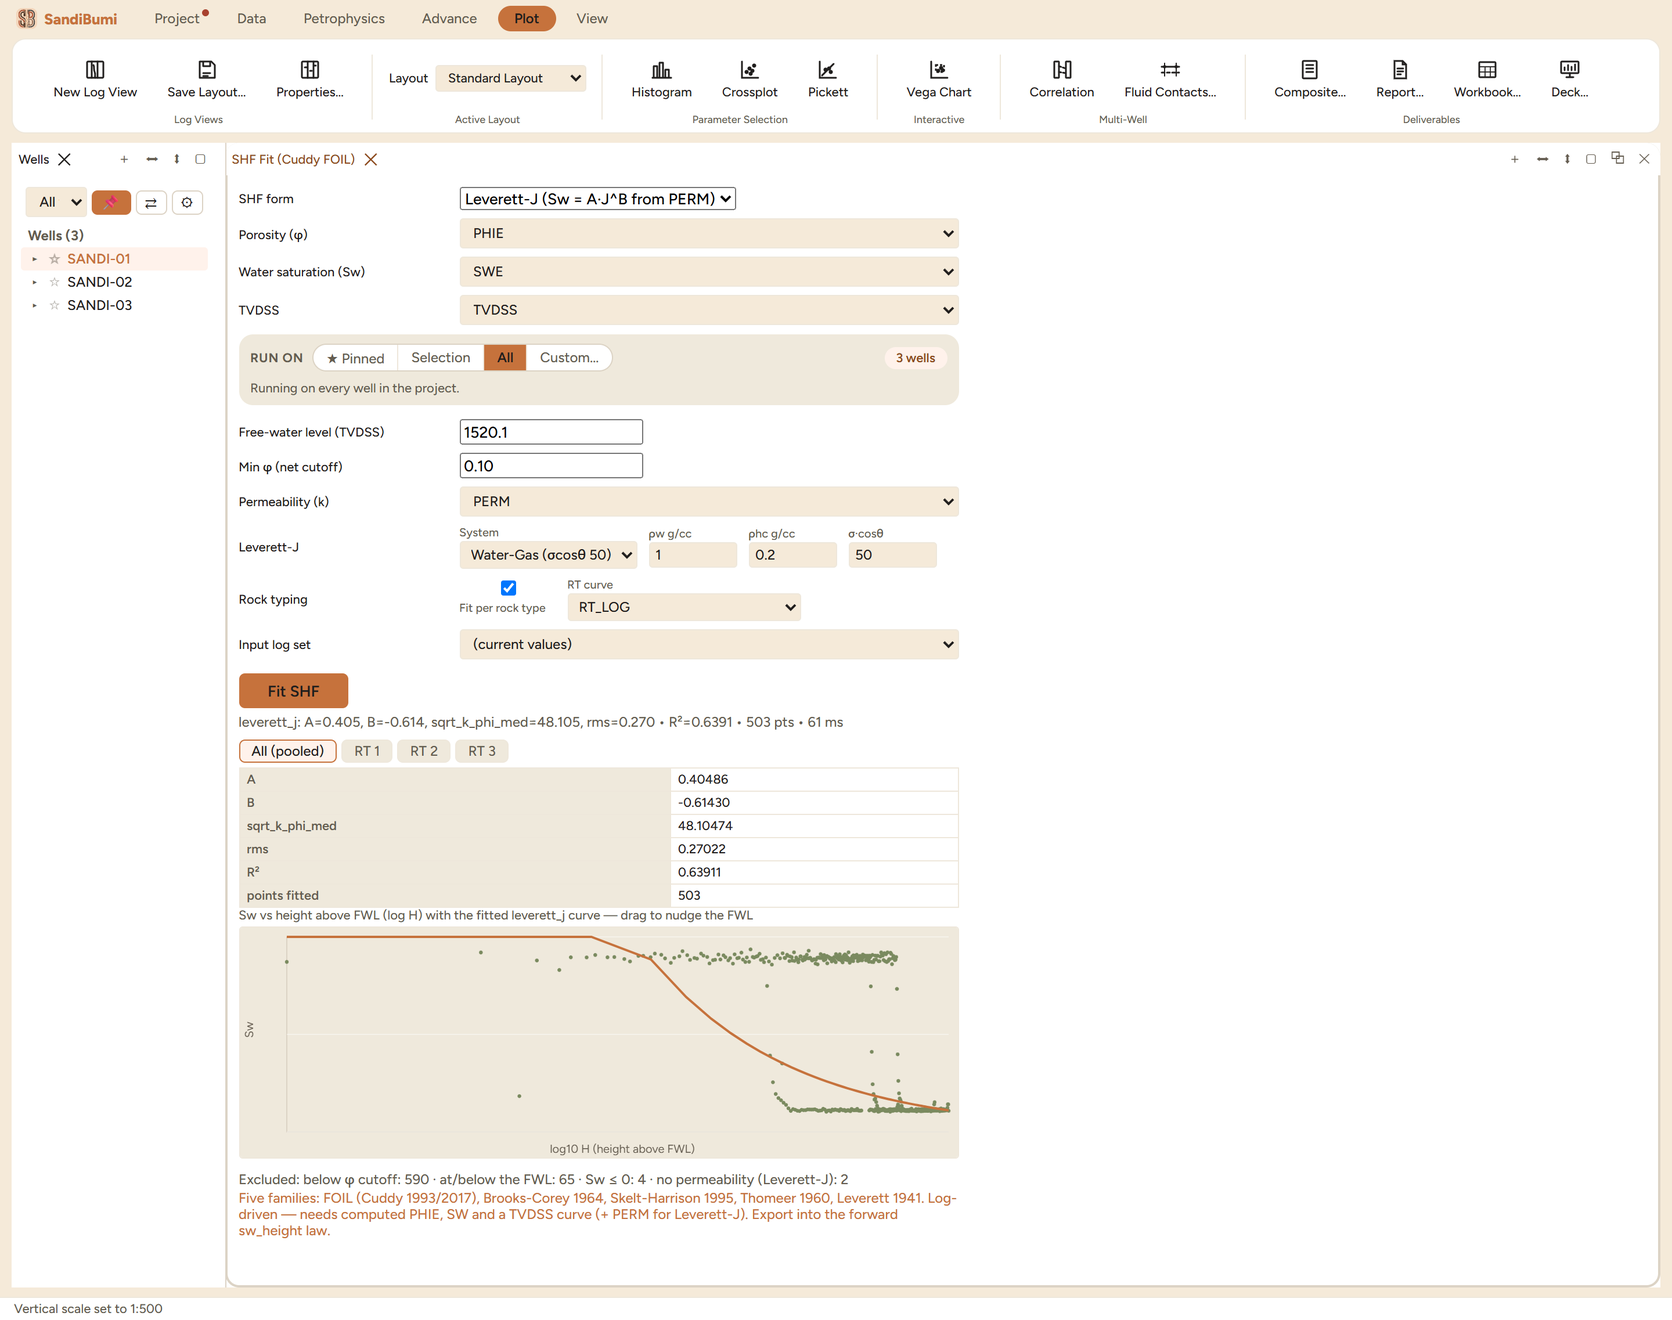
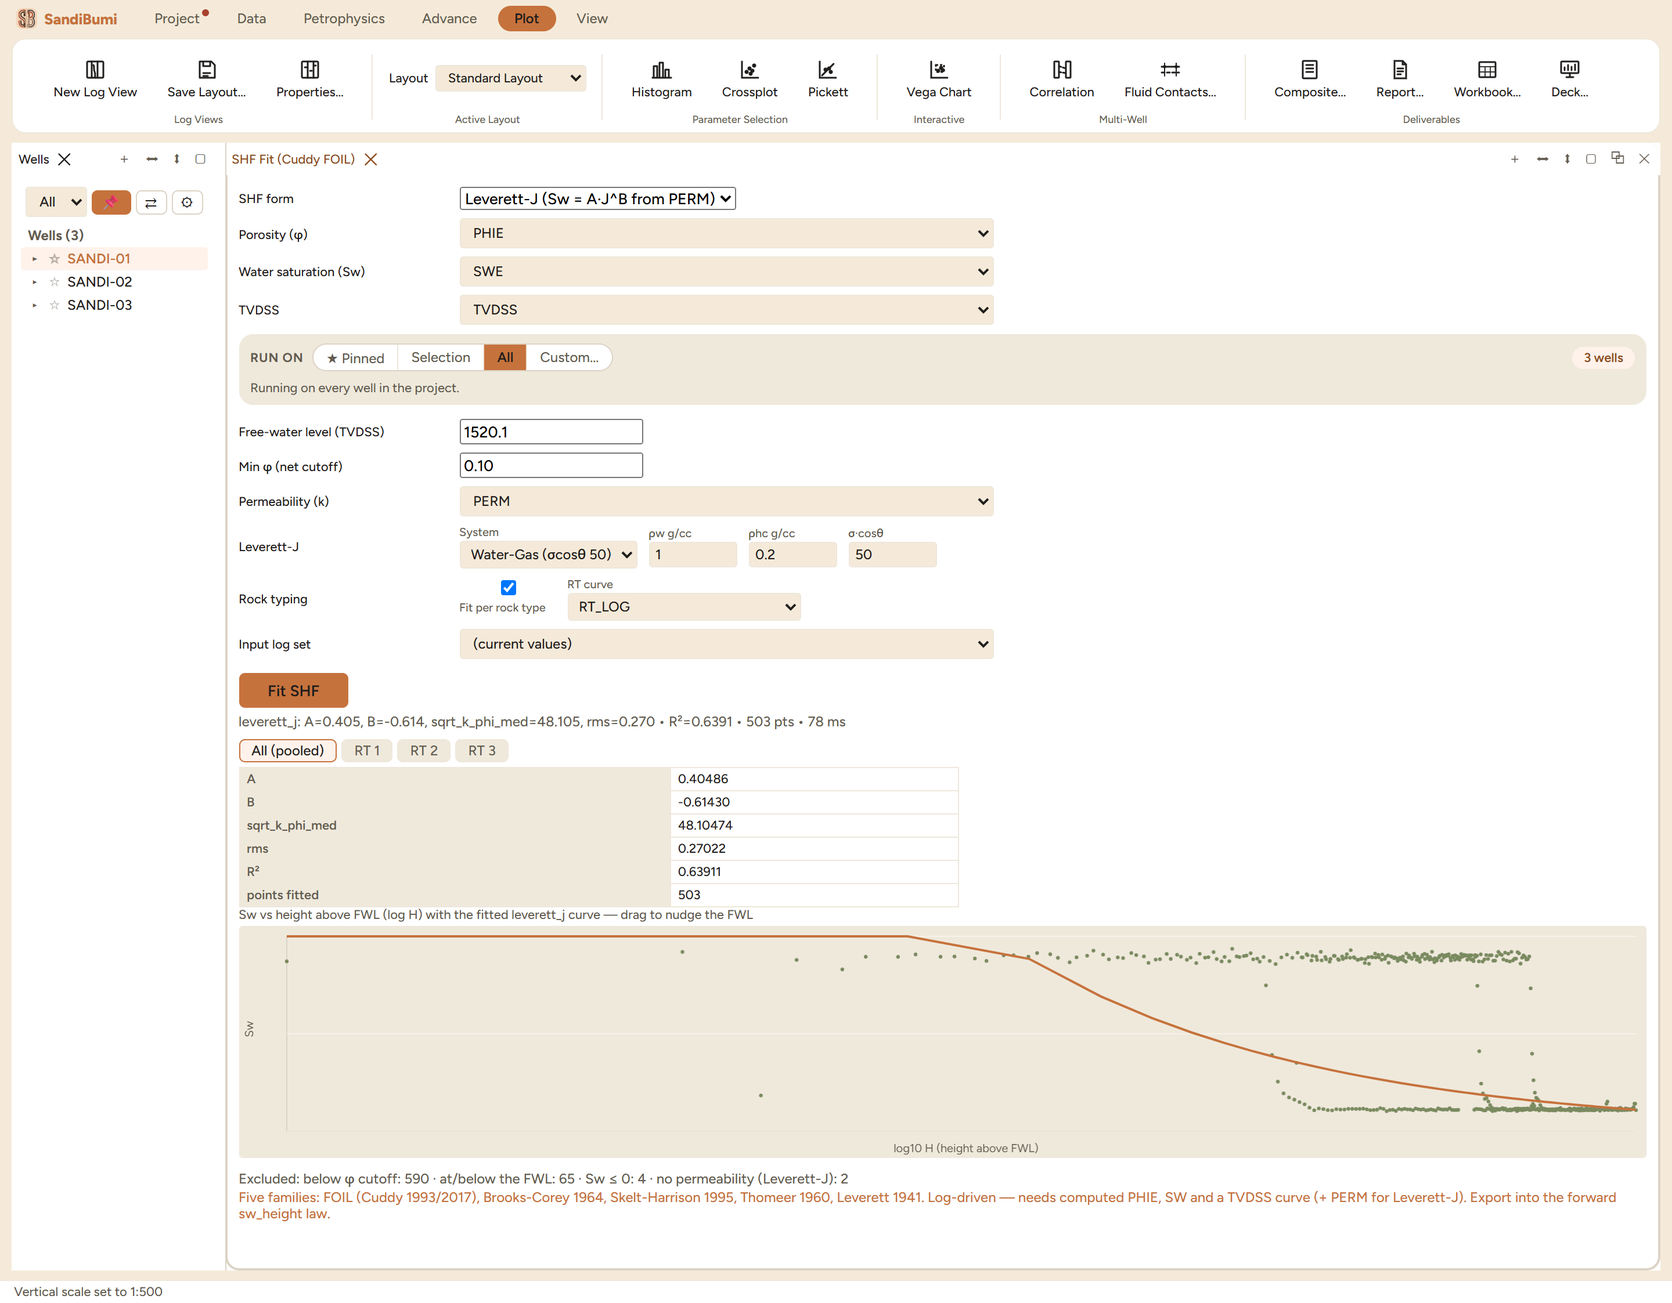
The two fit panes fill the pane they are given
This reverses a deliberate decision, not an oversight. The 2026-08-07 comment
kept SHF Fit and Pc Fit at the 620px form-column cap on the stated grounds that
they "genuinely are a column of fields". That was the right test; it has stopped
describing these two panes.

Measured at a 1680px window before the change: pane 1497px, card 620px, 877px of
the pane sitting empty - while SHF drew its Sw-versus-height fit plot at 620px
and Thomeer drew TWO plots and a TWELVE-column per-plug table at 620px. A plot
you read the answer off, and a table that wide, are what the same paragraph says
the space should go to. After the change both cards fill, leaving 24px - the
pane's own gutter.

Filling is not stretching, and it is not only about fields. Lifting the cap alone
made two things worse, so both are bounded: SHF's coefficients table is a
two-column key/value list and keeps a column's width, while Thomeer's twelve
column table fills; and the Pd-G plane is a CROSSPLOT - both axes are data - so
it stays roughly square instead of becoming an 8:1 letterbox holding three
points, while the Pc curve beside it is read left to right and fills. SHF's
single-line selects hold at 460px, the number the five panes that opted out in
2026-08-07 already use.

Both panes also had to learn to redraw. Neither carried a resize observer,
because neither could change width before, and a canvas whose CSS box grows
without a redraw is a scaled bitmap rather than a bigger plot. Both now use
[…]

diff --git a/src/ui/shfDialog.ts b/src/ui/shfDialog.ts
@@ -8,7 +8,7 @@ import {
 } from "../ipc";
 import { buildLogSetPicker } from "./logSetPicker";
 import { formRow } from "./modal";
-import { canvasFont, readTheme } from "./plotCanvas";
+import { attachResizeRedraw, canvasFont, readTheme } from "./plotCanvas";
 import { preferredCurveSelect } from "./plotCommon";
 import { recordProcess } from "../processLog";
 import { buildWellScope } from "./wellScope";
@@ -202,12 +202,18 @@ export async function buildShfContent(
     },
   };
 
+  // One handle for whatever plot is on screen. Both render paths return their own detacher and
+  // every run replaces the results, so observers are released rather than stacked per fit.
+  let detachPlots: (() => void) | null = null;
+
   const doRun = async (): Promise<void> => {
     const wellIds = scope.getWellIds();
     if (wellIds.length === 0) {
       setStatus("No wells in scope — pick a group, pin/select wells, or choose All");
       return;
     }
+    detachPlots?.();
+    detachPlots = null;
     runBtn.disabled = true;
     statusLine.textContent = "Fitting…";
     const t0 = performance.now();
@@ -246,7 +252,7 @@ export async function buildShfContent(
             (res.fwl_best != null ? ` • FWL=${res.fwl_best.toFixed(1)}` : "");
           if (res.fwl_best != null) fwlInput.value = res.fwl_best.toFixed(2);
           recordProcess("SHF", `Cuddy FOIL fit: BVW=${res.a.toExponential(3)}·H^${res.b.toFixed(3)} (R²=${res.r2.toFixed(3)})`);
-          renderResults(results, res, fwlCtl);
+          detachPlots = renderResults(results, res, fwlCtl);
         }
       } else {
         const res = await runShfFit(
@@ -270,7 +276,7 @@ export async function buildShfContent(
           const ps = res.params.map(([k, v]) => `${k}=${fmt(v, 3)}`).join(", ");
           statusLine.textContent = `${res.method}: ${ps} • R²=${res.r2.toFixed(4)} • ${res.n_points} pts • ${ms} ms`;
           recordProcess("SHF", `${res.method} fit: ${ps} (R²=${res.r2.toFixed(3)})`);
-          renderShfResults(results, res, fwlCtl);
+          detachPlots = renderShfResults(results, res, fwlCtl);
         }
       }
     } catch (e) {
@@ -283,7 +289,13 @@ export async function buildShfContent(
     void doRun();
   });
 
-  return { el: content, dispose: () => scope.dispose() };
+  return {
+    el: content,
+    dispose: () => {
+      detachPlots?.();
+      scope.dispose();
+    },
+  };
 }
 
 /** Excluded-sample breakdown + honesty notes, shown under every result (and on failures). */
@@ -338,8 +350,10 @@ function attachFwlDrag(canvas: HTMLCanvasElement, currentFwl: () => number, ctl:
   });
 }
 
-function renderResults(host: HTMLElement, res: CuddyFoilResult, ctl: FwlCtl): void {
+function renderResults(host: HTMLElement, res: CuddyFoilResult, ctl: FwlCtl): () => void {
   host.innerHTML = "";
+  // Collected as the canvases are built; the pane is resizable now, so each needs a redraw.
+  const detachers: Array<() => void> = [];
 
   const summary = document.createElement("table");
   summary.className = "mc-table";
@@ -393,6 +407,7 @@ function renderResults(host: HTMLElement, res: CuddyFoilResult, ctl: FwlCtl): vo
   canvas.className = "mc-hist";
   host.appendChild(canvas);
   drawFoil(canvas, res);
+  detachers.push(attachResizeRedraw(canvas, () => drawFoil(canvas, res)));
   attachFwlDrag(canvas, () => res.fwl_used, ctl);
 
   if (res.scan.length > 0) {
@@ -404,6 +419,7 @@ function renderResults(host: HTMLElement, res: CuddyFoilResult, ctl: FwlCtl): vo
     scanCanvas.className = "mc-hist";
     host.appendChild(scanCanvas);
     drawScan(scanCanvas, res);
+    detachers.push(attachResizeRedraw(scanCanvas, () => drawScan(scanCanvas, res)));
     // Click-to-pick a candidate FWL straight off the scan curve.
     scanCanvas.style.cursor = "crosshair";
     scanCanvas.addEventListener("click", (e) => {
@@ -418,6 +434,10 @@ function renderResults(host: HTMLElement, res: CuddyFoilResult, ctl: FwlCtl): vo
       if (Number.isFinite(fwl)) ctl.setFwl(Math.min(xmax, Math.max(xmin, fwl)));
     });
   }
+
+  return () => {
+    for (const d of detachers) d();
+  };
 }
 
 /** Log–log scatter of (H, BVW) with the fitted power-law line. */
@@ -545,8 +565,11 @@ function drawScan(canvas: HTMLCanvasElement, res: CuddyFoilResult): void {
 
 /** Height-domain fit results: param table, per-RT tabs, diagnostics, and the Sw-vs-height
  *  crossplot with the selected law's curve. */
-function renderShfResults(host: HTMLElement, res: ShfFitResult, ctl: FwlCtl): void {
+function renderShfResults(host: HTMLElement, res: ShfFitResult, ctl: FwlCtl): () => void {
   host.innerHTML = "";
+  // showTab rebuilds the plot on every click, so exactly one observer is held and replaced
+  // rather than one accumulating per tab visit.
+  let detachPlot: (() => void) | null = null;
 
   const paramTable = (params: [string, number | null][], r2: number | null, n: number): HTMLTableElement => {
     const t = document.createElement("table");
@@ -578,6 +601,8 @@ function renderShfResults(host: HTMLElement, res: ShfFitResult, ctl: FwlCtl): vo
   host.appendChild(detail);
 
   const showTab = (gp: ShfGroupFit | null): void => {
+    detachPlot?.();
+    detachPlot = null;
     detail.innerHTML = "";
     if (gp && gp.error) {
       detail.appendChild(paramTable([], null, gp.n_points));
@@ -605,7 +630,9 @@ function renderShfResults(host: HTMLElement, res: ShfFitResult, ctl: FwlCtl): vo
     canvas.className = "mc-hist";
     detail.appendChild(canvas);
     const pts = gp ? res.points.filter((p) => p.rt === gp.rt) : res.points;
-    drawShfFit(canvas, pts, gp ? gp.curve : res.curve);
+    const curve = gp ? gp.curve : res.curve;
+    drawShfFit(canvas, pts, curve);
+    detachPlot = attachResizeRedraw(canvas, () => drawShfFit(canvas, pts, curve));
     attachFwlDrag(canvas, ctl.getFwl, ctl);
   };
 
@@ -630,6 +657,8 @@ function renderShfResults(host: HTMLElement, res: ShfFitResult, ctl: FwlCtl): vo
 
   showTab(null);
   renderDiagnostics(host, res.excluded, res.notes);
+
+  return () => detachPlot?.();
 }
 
 /** Sw (linear, 0–1) vs height (log10) scatter + the fitted Sw(H) curve. */

diff --git a/src/ui/thomeerDialog.ts b/src/ui/thomeerDialog.ts
@@ -1,5 +1,5 @@
 import { runThomeerFit, type ThomeerResult, type ThomeerSampleFit } from "../ipc";
-import { canvasFont, readTheme } from "./plotCanvas";
+import { attachResizeRedraw, canvasFont, readTheme } from "./plotCanvas";
 import { recordProcess } from "../processLog";
 import { buildWellScope } from "./wellScope";
 
@@ -41,6 +41,10 @@ export async function buildThomeerContent(
     "Swanson k constants are literature values — verify before field release.";
   content.appendChild(hint);
 
+  // One handle for the plots currently on screen. Each run replaces the results, so the previous
+  // render's resize observers are released first rather than stacking one set per fit.
+  let detachPlots: (() => void) | null = null;
+
   runBtn.addEventListener("click", async () => {
     const wellIds = scope.getWellIds();
     if (wellIds.length === 0) {
@@ -53,6 +57,8 @@ export async function buildThomeerContent(
     try {
       const res = await runThomeerFit(scope.backend());
       const ms = Math.round(performance.now() - t0);
+      detachPlots?.();
+      detachPlots = null;
       if (res.error) {
         statusLine.textContent = `Failed: ${res.error}`;
         results.innerHTML = "";
@@ -60,7 +66,7 @@ export async function buildThomeerContent(
         const skipNote = res.skipped > 0 ? ` (${res.skipped} plug(s) skipped — no φ or too few points)` : "";
         statusLine.textContent = `${res.fits.length} plug(s) fitted${skipNote} • ${ms} ms`;
         recordProcess("RockType", `Thomeer fit: ${res.fits.length} plug(s)${skipNote}`);
-        renderThomeer(results, res);
+        detachPlots = renderThomeer(results, res);
       }
     } catch (e) {
       statusLine.textContent = `Failed: ${e}`;
@@ -69,10 +75,16 @@ export async function buildThomeerContent(
     }
   });
 
-  return { el: content, dispose: () => scope.dispose() };
+  return {
+    el: content,
+    dispose: () => {
+      detachPlots?.();
+      scope.dispose();
+    },
+  };
 }
 
-function renderThomeer(host: HTMLElement, res: ThomeerResult): void {
+function renderThomeer(host: HTMLElement, res: ThomeerResult): () => void {
   host.innerHTML = "";
   let selected = 0;
 
@@ -90,7 +102,10 @@ function renderThomeer(host: HTMLElement, res: ThomeerResult): void {
   const pcCanvas = document.createElement("canvas");
   pcCanvas.className = "mc-hist";
   const pdgCanvas = document.createElement("canvas");
-  pdgCanvas.className = "mc-hist";
+  // Both axes of the Pd-G plane are data, so it is a crossplot and is marked as one: it stays
+  // roughly square instead of filling a wide pane. The Pc curve above it is read left to right
+  // against a single axis and is free to fill.
+  pdgCanvas.className = "mc-hist mc-hist-plane";
 
   const bodyRows: HTMLTableRowElement[] = [];
   const redraw = () => {
@@ -147,6 +162,20 @@ function renderThomeer(host: HTMLElement, res: ThomeerResult): void {
   host.appendChild(pdgCanvas);
 
   redraw();
+
+  // The pane no longer caps at the form-column width, so these canvases really do change size.
+  // A canvas whose CSS box grows without a redraw is a scaled bitmap, not a bigger plot.
+  return attachAll([
+    attachResizeRedraw(pcCanvas, () => drawPcCurve(pcCanvas, res.fits[selected])),
+    attachResizeRedraw(pdgCanvas, () => drawPdG(pdgCanvas, res.fits, selected)),
+  ]);
+}
+
+/** Collapse several detachers into one, so a caller holds a single handle per render. */
+function attachAll(detachers: Array<() => void>): () => void {
+  return () => {
+    for (const d of detachers) d();
+  };
 }
 
 /** Selected plug: Bv (linear) vs log10 Pc scatter + the fitted hyperbola. */

diff --git a/src/styles.css b/src/styles.css
@@ -7159,15 +7159,20 @@ input[type="number"].num-editing:focus {
  * simply ended, with the dock's background showing past it (Jauhar, 2026-08-07: "when
  * resized, it wont fill"). They opt out exactly as SandiMin already did.
  *
- * The two calibration fits (Thomeer, saturation-height) KEEP the cap deliberately. They
- * genuinely are a column of fields, which is the same split the `.module-pane` rule below
- * already draws — a picture tool squeezed into a form column is the complaint, a form column
- * that stays a form column is not. */
+ * The two fits (Thomeer, saturation-height) kept the cap on the grounds that they "genuinely are
+ * a column of fields". That was the right test, and it has since stopped being true of them, so
+ * they join the list (2026-08-29). Measured at a 1680px window before the change: pane 1497px,
+ * card 620px, 877px of the pane left empty — while SHF drew its Sw-vs-height fit plot at 620px
+ * and Thomeer drew TWO plots and a TWELVE-column per-plug table at 620px. A plot you read the
+ * answer off, and a table that wide, are exactly what the paragraph above says the space should
+ * go to. The split is unchanged; these two panes moved across it. */
 .dock-ml .mc-dialog,
 .dock-facies-tie .mc-dialog,
 .dock-montecarlo .mc-dialog,
 .dock-lorenz .mc-dialog,
-.dock-hfu .mc-dialog {
+.dock-hfu .mc-dialog,
+.dock-shf .mc-dialog,
+.dock-thomeer .mc-dialog {
   max-width: none;
 }
 
@@ -7184,8 +7189,25 @@ input[type="number"].num-editing:focus {
 .dock-lorenz .form-row > select,
 .dock-lorenz .form-row > input,
 .dock-hfu .form-row > select,
-.dock-hfu .form-row > input {
+.dock-hfu .form-row > input,
+.dock-shf .form-row > select,
+.dock-shf .form-row > input {
   max-width: 460px;
+}
+/* Thomeer is deliberately absent: its only controls are the Run-on pills and the Fit button, so
+ * there is no single-line field for the cap to protect. Add it here the day it grows one. */
+
+/* Filling is not stretching, second reading — it applies to tables and plots, not only to fields.
+ * SHF's result table is a two-column key/value list (A, B, rms, R2, points fitted); across a wide
+ * pane the eye has to travel from the name to the number, so it keeps a column's width. Thomeer's
+ * twelve-column per-plug table is the opposite case and fills, which is half of why the cap came
+ * off. And the Pd-G plane is a CROSSPLOT — both axes are data — so it stays roughly square rather
+ * than becoming an 8:1 letterbox holding three points. */
+.dock-shf .mc-table {
+  max-width: 620px;
+}
+.dock-thomeer .mc-hist-plane {
+  max-width: 620px;
 }
 
 /* Where the pane is wide enough for two readable columns, the FORM gains a second column

diff --git a/REVIEW.md b/REVIEW.md
@@ -20806,3 +20806,50 @@ be showing the same margin.
 
 - [ ] **The sw_height chapter's free-water level** — 1535 m MD in the chapter against 1550.1 m
       MD from the contacts registry and the Results QC chapter. Unchanged, still waiting on you.
+
+## The two fit panes fill the pane they are given (2026-08-29)
+
+**Read this one before accepting it — it reverses a decision of yours, not an oversight.** I
+proposed it as "SHF and Thomeer were swept up by mistake"; that was wrong. The stylesheet records
+a deliberate call from 2026-08-07 that those two keep the 620px form-column cap, on the stated
+grounds that they "genuinely are a column of fields". So the question is not whether the rule was
+right, but whether that reason still describes the panes. I do not think it does, and here is the
+measurement rather than an opinion.
+
+At a 1680px window, before the change: the pane is **1497px**, the card **620px**, and **877px of
+the pane sits empty**. In that 620px, SHF draws its Sw-versus-height fit plot, and Thomeer draws
+**two plots and a twelve-column per-plug table**. A plot you read the answer off, and a table that
+wide, are precisely what the same stylesheet paragraph says the space should go to. After the
+change both cards fill the pane, with 24px left — the pane's own gutter.
+
+**Filling is not stretching, and it is not only about fields.** Lifting the cap alone made two
+things worse, so both are bounded:
+
+- SHF's coefficients table is a **two-column key/value list** (A, B, rms, R², points fitted).
+  Across a wide pane the eye has to travel from the name to the number, so it keeps a column's
+  width. Thomeer's twelve-column table is the opposite case and fills.
+- Thomeer's **Pd–G plane is a crossplot** — both axes are data — so it stays roughly square
+  instead of becoming an 8:1 letterbox holding three points. The Pc curve above it is read left
+  to right against one axis, so it fills.
+- SHF's single-line selects and inputs hold at 460px, the same number the five panes that opted
+  out in 2026-08-07 already use.
+
+**The panes also had to learn to redraw.** Neither had a resize observer, because neither could
+change width before. A canvas whose CSS box grows without a redraw is a scaled bitmap, not a
+bigger plot. Both now redraw, and the observers are released on each re-run and on close rather
+than stacking one set per fit. Verified by fitting at a 1000px window and *then* widening: the
+canvas backing store followed, 1582 → 2902 px.
+
+- [ ] **Open Pc Fit (Thomeer) and press Fit Thomeer, then drag the pane wider.** The twelve-column
+      table should spread out and stay readable, the Pc curve should fill, and the Pd–G crossplot
+      should stay compact rather than stretching. The plots should stay sharp, not go soft.
+- [ ] **Open SHF Fit on Leverett-J and fit it, then widen.** Same check — the fit plot fills and
+      sharpens, the coefficient table stays a column, and the input selects stay their old width.
+- [ ] **Then narrow it back down.** Both panes should look exactly as they did before this change
+      at a normal docked width; the cap only ever bound above 620px.
+- [ ] **The two figures were re-shot**, same runs and same numbers as their captions quote —
+      Thomeer G 0.87–0.97 on 8 points each, SHF A 0.405 / B −0.614 / R² 0.639 over 503 points.
+      Only the layout moved.
+
+**If you disagree, say so and I will put the cap back** — it is two selectors, and the redraw
+work is worth keeping either way.

diff --git a/CLAUDE.md b/CLAUDE.md
@@ -181,9 +181,17 @@ things the conversion turned up, all worth keeping:
   barrels and the history, which is what the per-barrel path already did.
 - **`.module-pane` caps at 620px, which is right for a form column and wrong for a picture.** The
   picture and table panes (pore area, plate details, conditioning, depth registration, mineral
-  classifier) opt out via `.dock-<x> .module-pane { max-width: none }`; the two calibration fits
-  keep the cap because they genuinely are a column of fields. A picture tool squeezed into a form
-  column in a wide pane is exactly the "not proportional" complaint.
+  classifier) opt out via `.dock-<x> .module-pane { max-width: none }`; the calibration fits
+  (`.dock-rtc-fit`, `.dock-sfactor-fit`) keep the cap because they genuinely are a column of
+  fields. A picture tool squeezed into a form column in a wide pane is exactly the "not
+  proportional" complaint. **The test is what the pane HOLDS, and it is re-applied, not assumed:**
+  SHF Fit and Pc Fit kept the cap on the same grounds until 2026-08-29, by which time they held a
+  fit plot, two plots and a twelve-column table — measured at 877px of a 1497px pane sitting
+  empty — so they moved across the split. Filling is not stretching, and it is not only about
+  fields: in those two panes a two-column key/value table and the Pd-G CROSSPLOT (both axes are
+  data) stay bounded while the wide table and the read-left-to-right curves fill. **A canvas that
+  can now change size needs `attachResizeRedraw`** — a CSS box that grows without one is a scaled
+  bitmap, not a bigger plot.
 
 A pane that needs a well says so IN THE PANE rather than calling `requireWell` — that refusal
 exists for a click where nothing visible happens, and a pane opening IS visible.

diff --git a/docs/VERIFICATION_MATRIX.md b/docs/VERIFICATION_MATRIX.md
@@ -9,7 +9,7 @@ containing a checked scenario; it is not a more precise test timestamp.
 
 Capabilities with recorded exercise: **20 / 54**. Fully exercised: **1 / 54**.
 
-Review sections counted toward no capability: **191** of 755,
+Review sections counted toward no capability: **191** of 756,
 each named in `unmapped_review_sections` in the capability map. They contribute to no count in
 this table, so every figure above reads low by whatever those sections cover.
 
@@ -61,7 +61,7 @@ this table, so every figure above reads low by whatever those sections cover.
 | `report` | Report deliverables | Partially exercised | 8 / 130 | 2026-08-14 | 29 |
 | `office-deliverables` | Workbook, document and deck deliverables | Not exercised | 0 / 39 | — | 4 |
 | `las-export` | LAS export | Not exercised | 0 / 23 | — | 8 |
-| `workspace-shell` | Docking workspace, panes and ribbon | Not exercised | 0 / 210 | — | 36 |
+| `workspace-shell` | Docking workspace, panes and ribbon | Not exercised | 0 / 214 | — | 37 |
 | `project-lifecycle` | Project lifecycle and sessions | Partially exercised | 3 / 38 | 2026-07-19 | 9 |
 | `database-tools` | Database inspector and SQL tools | Not exercised | 0 / 17 | — | 5 |
 | `processing-history` | Processing history | Not exercised | 0 / 7 | — | 1 |
